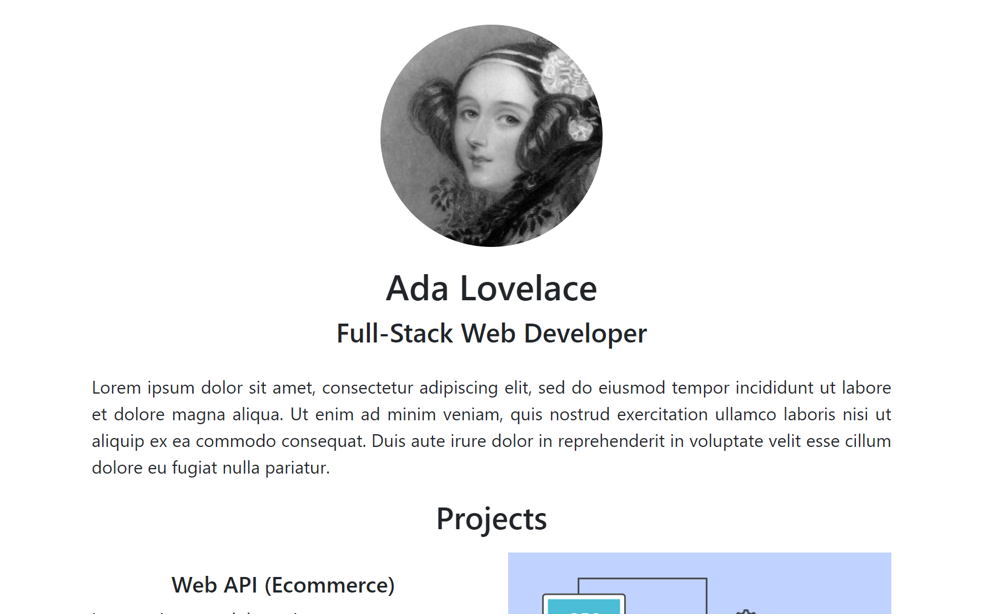
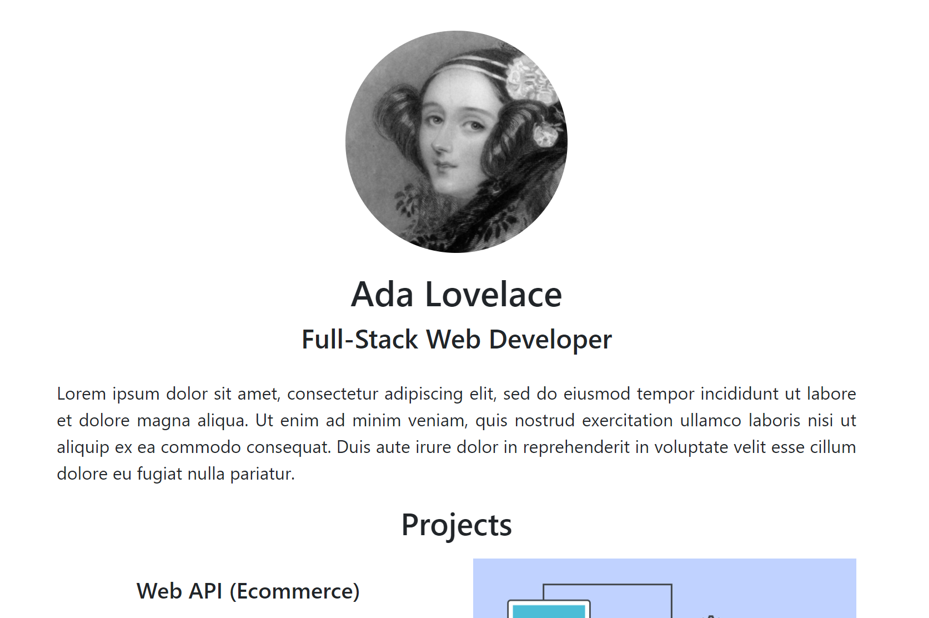
modified design

diff --git a/index.html b/index.html
@@ -15,34 +15,45 @@
         <link rel="stylesheet" href="./style.css" type="text/css">
         <!--end custom css-->
         <!--fonts-->
+        <link rel="preconnect" href="https://fonts.googleapis.com">
+        <link rel="preconnect" href="https://fonts.gstatic.com" crossorigin>
+        <link href="https://fonts.googleapis.com/css2?family=Space+Grotesk:wght@300&display=swap" rel="stylesheet">
         
         <title>Shella Marie | Software Developer</title>
 
     </head>
     <body>
         <!--Start of navbar-->
-        <nav class="navbar navbar-expand-lg bg-blue sticky-top menu">
-            <a class="navbar-brand" href="#home"><h3 id="logo" class="icon pt-2 text-white">ella;</h3></a>
-            <button class="navbar-toggler" type="button" data-toggle="collapse" data-target="#navbarNav" aria-controls="navbarNav" aria-expanded="false" aria-label="Toggle navigation">
-                <span class="navbar-toggler-icon"></span>
+        <nav class="navbar navbar-expand-lg navbar-dark bg-blue">
+            <button class="navbar-toggler" type="button" data-toggle="collapse" data-target="#navbarTogglerDemo03" aria-controls="navbarTogglerDemo03" aria-expanded="false" aria-label="Toggle navigation">
+              <span class="navbar-toggler-icon"></span>
             </button>
-            <div class="collapse navbar-collapse" id="navbarNav">
-                <ul class="navbar-nav ml-auto">
-                    <li class="nav-item pr-2">
-                        <a class="nav-link text-white " href="#about">About</a>
-                    </li>
-                    <li class="nav-item pr-2">
-                        <a class="nav-link  text-white" href="#skills">My Skills</a>
-                    </li>
-                    <li class="nav-item pr-2">
-                        <a class="nav-link  text-white" href="#work">Work</a>
+            <a class="navbar-brand d-md-block d-lg-none" href="#home"><img class="logo" src="./images/ella-logo.png"/></a>
+          
+            <div class="collapse navbar-collapse" id="navbarTogglerDemo03">
+                <ul class="navbar-nav mr-auto ml-md-auto mt-2 mt-lg-0 menu">
+                    <li class="nav-item active">
+                    <!-- <a class="nav-link" href="#">Home <span class="sr-only">(current)</span></a> -->
                     </li>
                     <li class="nav-item">
-                        <a class="nav-link  text-white" href="#contact">Contact</a>
+                        <a class="nav-link text-white mt-2 mx-1" href="#about">About</a>
+                    </li>
+                    <li class="nav-item">
+                        <a class="nav-link  text-white mt-2  mx-1" href="#skills">My Skills</a>
+                    </li>
+                    <li class="d-none d-lg-block">
+                        <a class="navbar-brand" href="#home"><img class="logo" src="./images/ella-logo.png"/></a>
+                    </li>
+                    <li class="nav-item">
+                        <a class="nav-link  text-white mt-2  mx-1" href="#work">Work</a>
+                    </li>
+                    <li class="nav-item">
+                        <a class="nav-link  text-white mt-2  mx-1" href="#contact">Contact</a>
                     </li>
                 </ul>
             </div>
         </nav>
+        
         <!--end of navbar-->
        <div class="container-fluid p-5 mt-5" id="home">
             <div class="row flex-wrap justify-content-center">
@@ -51,13 +62,13 @@
                         <h1>Hi! I'm Ella,</h1>
                         <h1>web developer</h1>
                         <h5 class="course">Front End Developer | Back End Developer | Full Stack Developer</h5>
-                        <a class="btn btn-outline-success mt-3" href="#contact" role="button">Let's try something amazing!</a>
+                        <a class="btn btn-success mt-3" href="#contact" role="button">Let's try something amazing!</a>
                     </div>
                 </div>
             </div>
         </div>
         <div class="container-fluid p-5 my-5" id="about">
-            <div class="row h-100" >
+            <div class="row h-100 justify-content-center align-self-center">
                 <div class="col-12 col-md-6 order-2 order-md-1">
                     <div class="card-body white-border text-center">
                         <h1 class="text-center text-white">Me, Myself & I</h1>
@@ -71,9 +82,9 @@
                         <a href="#contact" class="card-link text-blue"><u class="font-weight-bold">Wanna create something special with me?</u></a>
                     </div>
                 </div>
-                <div class="col-12 col-md-6 order-1 order-md-2">
-                    <div class="card-body">
-                        <div class="profile d-flex justify-content-center align-self-center">
+                <div class="col-12 col-md-6 order-1 order-md-2 justify-content-center align-self-center">
+                    <div class="card-body text-center">
+                        <div class="profile">
                             <img class="rounded-circle img-fluid" src="./images/me.jpg"/>
                         </div>
                         
@@ -166,9 +177,9 @@
                 </div>
             </div> -->
             <div class="row">
-                <div class="col-md-4 col-12">
-                    <div class="card-body h-100">
-                        <div class="blue-border text-center h-100">
+                <div class="col-md-4 col-12 my-2">
+                    <div class="card-body blue-border h-100">
+                        <div class="text-center h-100">
                             <div class="my-2 p-3">
                                 <a target="_blank" href="http://fct.stylistinpocket.com/">
                                     <img class="img-fluid img-thumbnail" src="./images/fct-project.PNG">
@@ -181,9 +192,9 @@
                         </div>
                     </div>
                 </div>
-                <div class="col-md-4 col-12">
-                    <div class="card-body h-100">
-                        <div class="blue-border text-center h-100">
+                <div class="col-md-4 col-12 my-2">
+                    <div class="card-body blue-border h-100">
+                        <div class="text-center h-100">
                             <div class="my-2 p-3">
                                 <a target="_blank" href="http://demo-account.sip-lite.com/login">
                                     <img class="img-fluid img-thumbnail" src="./images/rit-project.PNG">
@@ -196,9 +207,9 @@
                         </div>
                     </div>
                 </div>
-                <div class="col-md-4 col-12">
-                    <div class="card-body h-100">
-                        <div class="blue-border text-center h-100">
+                <div class="col-md-4 col-12 my-2">
+                    <div class="card-body blue-border h-100 ">
+                        <div class="text-center h-100">
                             <div class="my-2 p-3">
                                 <a target="_blank" href="https://shelladiaz.github.io/s10/">
                                     <img class="img-fluid img-thumbnail" src="./images/ada-project.PNG">
@@ -278,7 +289,7 @@
         <div class="container-fluid p-5 my-5" id="contact">
             <h1 class="text-center pb-4">Contact</h1>
             <div class="row justify-content-center">
-                <div class="col-12 col-md-6">
+                <div class="col-lg-6 col-md-12">
                     <div class="card-body green-border-radius">
                         <h5 class="card-title text-left"> <u>Send Us A Message</u> </h5>
                         <form>
@@ -300,8 +311,8 @@
                         </form>               
                     </div>
                 </div>
-                <div class="col-md-6">
-                    <div class="row  mt-3">
+                <div class="col-lg-6 col-md-12">
+                    <div class="row mt-3">
                         <div class="card-body green-border-radius text-center m-3" data-toggle="tooltip" data-placement="top" title="Click my number to call me.">
                             <a target="_blank" href="tel:09568015003" class="font-weight-bold text-blue">
                                 <div class="pt-2 pb-2" data-toggle="tooltip" data-placement="top" title="Click my number to call me.">
@@ -345,11 +356,6 @@
                 </div>
 
                 
-            </div>
-            <div class="row justify-content-center">
-                <div class="col-md-8 mt-3">
-                    
-                </div>
             </div>
 
         </div>

diff --git a/style.css b/style.css
@@ -1,3 +1,6 @@
+* {
+    font-family: 'Space Grotesk', sans-serif;
+}
 .bg-light-green {
     background: #96BE8C;
 }
@@ -36,7 +39,7 @@
 }
 
 .blue-border {
-    border: 2px solid #055C9E;
+    border: 2px solid white;
     border-radius: 30px;
 
 
@@ -55,7 +58,7 @@
     height: 3px;
     top: 100%;
     left: 0;
-    background: #243119;
+    background: white;
     transition: transform 0.5s;
     transform: scaleX(0);
     transform-origin: left;
@@ -86,6 +89,12 @@
 .course:hover {
     color: #629460;
 }
+
+/*
+*Navbar
+*/
+
+
 
 /*
 *Work
@@ -158,6 +167,11 @@ textarea {
         font-size-adjust: 13px;
        
     }
+
+    .profile img {
+        height: 250px;
+    }
+    
 
 
 
